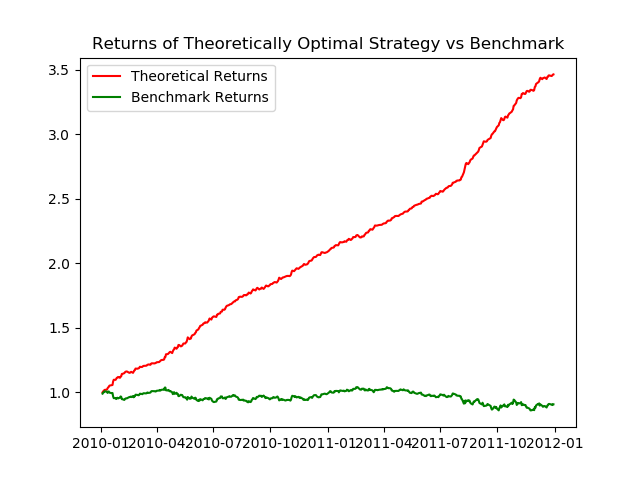
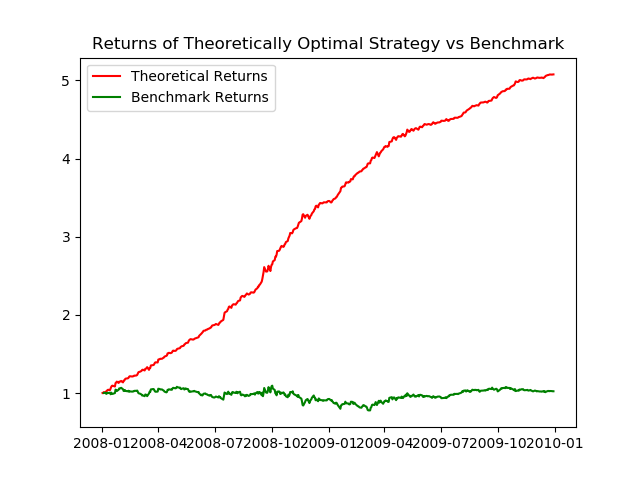
don cannot do label indexing error

diff --git a/ML4T_2019Fall/strategy_learner/experiment2.py b/ML4T_2019Fall/strategy_learner/experiment2.py
@@ -40,33 +40,50 @@ def experiment1():
     start_val = 100000
     symbol = "JPM"
     commission = 9.95
-    impact = 0.005
     num_shares = 1000
     sd=dt.datetime(2008,1,1)
     ed=dt.datetime(2009,12,31)
 
-    #In-Sample Q-Learning Strat Port Stats
+    #Normal Impact
     seed = 1021080103
     #seed = 1001090000
     #seed = 1111090000
     np.random.seed(seed)  		   	  			  	 		  		  		    	 		 		   		 		  
     random.seed(seed)
+    impact = 0.005
     stl = StrategyLearner.StrategyLearner( impact=impact)
     stl.addEvidence(symbol=symbol, sd=sd, ed=ed)
-    df_trades = stl.testPolicy(symbol=symbol, sd=sd, ed=ed)
-    df_trades = reformat_trades(symbol, df_trades)
-    strat_portvals = ms.compute_portvals(df_trades, start_val=100000, commission=9.95, impact=0.005)
+    df_trades_norm = stl.testPolicy(symbol=symbol, sd=sd, ed=ed)
+    df_trades_norm = reformat_trades(symbol, df_trades_norm)
+    num_trades_norm = df_trades_norm.shape[0]
+    strat_portvals = ms.compute_portvals(df_trades_norm, start_val=100000, commission=9.95, impact=0.005)
     cum_ret, avg_daily_ret, std_daily_ret, sharpe_ratio = compute_port_stats(strat_portvals)
     strat_returns = strat_portvals["portfolio_totals"]
     normed_strat_returns = strat_portvals["portfolio_totals"] / strat_portvals["portfolio_totals"][0]
 
-    #Man Strat Port Stats
-    man = ManualStrategy.ManualStrategy()
-    man_trades_df = man.testPolicy(symbol=symbol, sd=sd, ed=ed)
-    man_portvals = ms.compute_portvals(man_trades_df, start_val=100000, commission=9.95, impact=0.005)
-    cum_retM, avg_daily_retM, std_daily_retM, sharpe_ratioM = compute_port_stats(man_portvals)
-    man_returns = man_portvals["portfolio_totals"]
-    normed_man_returns = man_portvals["portfolio_totals"] / man_portvals["portfolio_totals"][0]
+    #No Impact
+    impact = 0.0
+    stl = StrategyLearner.StrategyLearner( impact=impact)
+    stl.addEvidence(symbol=symbol, sd=sd, ed=ed)
+    df_trades_z = stl.testPolicy(symbol=symbol, sd=sd, ed=ed)
+    df_trades_z = reformat_trades(symbol, df_trades_z)
+    num_trades_zero = df_trades_z.shape[0]
+    z_portvals = ms.compute_portvals(df_trades_z, start_val=100000, commission=9.95, impact=0.005)
+    cum_retZ, avg_daily_retZ, std_daily_retZ, sharpe_ratioZ = compute_port_stats(z_portvals)
+    z_returns = z_portvals["portfolio_totals"]
+    normed_z_returns = z_portvals["portfolio_totals"] / z_portvals["portfolio_totals"][0]
+
+    #High Impact Stats
+    impact = 0.99
+    stl = StrategyLearner.StrategyLearner( impact=impact)
+    stl.addEvidence(symbol=symbol, sd=sd, ed=ed)
+    df_trades_h = stl.testPolicy(symbol=symbol, sd=sd, ed=ed)
+    df_trades_h = reformat_trades(symbol, df_trades_h)
+    num_trades_high = df_trades_h.shape[0]
+    h_portvals = ms.compute_portvals(df_trades_h, start_val=100000, commission=9.95, impact=0.005)
+    cum_ret_h, avg_daily_ret_h, std_daily_ret_h, sharpe_ratio_H = compute_port_stats(h_portvals)
+    h_returns = h_portvals["portfolio_totals"]
+    normed_h_returns = h_portvals["portfolio_totals"] / h_portvals["portfolio_totals"][0]
 
     #Benchmark Stats
     df_prices = ind.prepare_pricedf(symbol, sd, ed)
@@ -78,33 +95,42 @@ def experiment1():
 
     print(f"Date Range: {sd} to {ed}")  		   	  			  	 		  		  		    	 		 		   		 		  
     print()  		   	  			  	 		  		  		    	 		 		   		 		  
-    print(f"Sharpe Ratio of Q Strat: {sharpe_ratio}")
-    print(f"Sharpe Ratio of Man Strat: {sharpe_ratioM}")  		   	  			  	 		  		  		    	 		 		   		 		  
-    print(f"Sharpe Ratio of Benchmark : {sharpe_ratioB}")   	  			  	 		  		  		    	 		 		   		 		  
+    print(f"Sharpe Ratio of Normal Impact: {sharpe_ratio}")
+    print(f"Sharpe Ratio of Zero Impact: {sharpe_ratioZ}")  		   	  			  	 		  		  		    	 		 		   		 		  
+    print(f"Sharpe Ratio of High Impact: {sharpe_ratio_H}")
+    print(f"Sharpe Ratio of Benchmark : {sharpe_ratioB}") 	  			  	 		  		  		    	 		 		   		 		  
     print()  		   	  			  	 		  		  		    	 		 		   		 		  
-    print(f"Cumulative Return of Q Strat: {cum_ret}")
-    print(f"Cumulative Return of Man Strat : {cum_retM}")		   	  			  	 		  		  		    	 		 		   		 		  
+    print(f"Cumulative Return of Normal Impact: {cum_ret}")
+    print(f"Cumulative Return of Zero Impact : {cum_retZ}")		   	  			  	 		  		  		    	 		 		   		 		  
+    print(f"Cumulative Return of High Impact : {cum_ret_h}")
     print(f"Cumulative Return of Benchmark : {cum_retB}")  		   	  			  	 		  		  		    	 		 		   		 		  
     print()  		   	  			  	 		  		  		    	 		 		   		 		  
-    print(f"Standard Deviation of Q Strat: {std_daily_ret}")
-    print(f"Standard Deviation of Man Strat : {std_daily_retM}") 		   	  			  	 		  		  		    	 		 		   		 		  
-    print(f"Standard Deviation of Benchmark : {std_daily_retB}")  		   	  			  	 		  		  		    	 		 		   		 		  
+    print(f"Standard Deviation of Normal Impact: {std_daily_ret}")
+    print(f"Standard Deviation of Zero Impact : {std_daily_retZ}") 		   	  			  	 		  		  		    	 		 		   		 		  
+    print(f"Standard Deviation of High Impact: {std_daily_ret_h}")
+    print(f"Standard Deviation of Benchmark : {std_daily_retB}") 		   	  			  	 		  		  		    	 		 		   		 		  
     print()  		   	  			  	 		  		  		    	 		 		   		 		  
-    print(f"Average Daily Return of Q Strat: {avg_daily_ret}")
-    print(f"Average Daily Return of Man Strat : {avg_daily_retM}") 		   	  			  	 		  		  		    	 		 		   		 		  
+    print(f"Average Daily Return of Normal Impact: {avg_daily_ret}")
+    print(f"Average Daily Return of Zero Impact : {avg_daily_retZ}") 		   	  			  	 		  		  		    	 		 		   		 		  
+    print(f"Average Daily Return of High Impact : {avg_daily_ret_h}")
     print(f"Average Daily Return of Benchmark : {avg_daily_retB}")  		   	  			  	 		  		  		    	 		 		   		 		  
     print()  		   	  			  	 		  		  		    	 		 		   		 		  
-    print(f"Final Portfolio Value Q Strat: {strat_returns[-1]}")
-    print(f"Final Portfolio Value Man Strat: {man_returns[-1]}")
+    print(f"Final Portfolio Value Normal Impact: {strat_returns[-1]}")
+    print(f"Final Portfolio Value Zero Impact: {z_returns[-1]}")
+    print(f"Final Portfolio Value High Impact: { h_returns[-1]}")
     print(f"Final Portfolio Value Benchmark: {bench_returns[-1]}")
+    print()
+    print("Num Trades Normal Impact: {}".format(num_trades_norm))
+    print("Num Trades High Impact: {}".format(num_trades_high))
+    print("Num Trades Zero Impact: {}".format(num_trades_zero))
 
-    chart_df = pd.concat([normed_strat_returns, normed_man_returns, normed_bench_returns], axis=1)
-    chart_df.columns = ['Q-Learning Strategy', 'Manual Strategy', 'Benchmark']
-    chart_df.plot(grid=True, title='Strategy Learner vs Manual Strategy vs Benchmark (In-Sample)', use_index=True, color=['Red', 'Blue', 'Black'])
+    chart_df = pd.concat([normed_strat_returns, normed_z_returns, normed_h_returns, normed_bench_returns], axis=1)
+    chart_df.columns = ['0.005 Impact', '0 Impact', '0.99 Impact', 'Benchmark']
+    chart_df.plot(grid=True, title='Normal Impact vs No Impact vs High Impact(In-Sample)', use_index=True, color=['Red', 'Blue', 'Black', "Green"])
     #plt.show()
     plt.xlabel('Returns Normalized', fontsize=10)
     plt.ylabel('Dates', fontsize=10)
-    plt.savefig("experiment1.png")
+    plt.savefig("experiment2.png")
 
 def reformat_trades(symbol, df_trades):
     orders = []

diff --git a/ML4T_2019Fall/strategy_learner/StrategyLearner.py b/ML4T_2019Fall/strategy_learner/StrategyLearner.py
@@ -25,7 +25,8 @@ Student Name: Tucker Balch (replace with your name)
 GT User ID: shollister7 (replace with your User ID)  		   	  			  	 		  		  		    	 		 		   		 		  
 GT ID: 903304661 (replace with your GT ID)  		   	  			  	 		  		  		    	 		 		   		 		  
 """  		   	  			  	 		  		  		    	 		 		   		 		  
-  		   	  			  	 		  		  		    	 		 		   		 		  
+
+import matplotlib.pyplot as plt   	  			  	 		  		  		    	 		 		   		 		  
 import datetime as dt  		   	  			  	 		  		  		    	 		 		   		 		  
 import pandas as pd  		   	  			  	 		  		  		    	 		 		   		 		  
 import util as ut  		   	  			  	 		  		  		    	 		 		   		 		  
@@ -34,7 +35,8 @@ import QLearner as ql
 import indicators as ind
 import util as ut
 import numpy as np 
-import marketsimcode as ms  	  			  	 		  		  		    	 		 		   		 		  
+import marketsimcode as ms
+import ManualStrategy as man	  			  	 		  		  		    	 		 		   		 		  
   		   	  			  	 		  		  		    	 		 		   		 		  
 class StrategyLearner(object):
     LNG = 1
@@ -94,7 +96,8 @@ class StrategyLearner(object):
         df_p = self.get_indicators(symbol, sd, ed)
         feats = self.discretize(df_p)
         #print(df_p)
-        pct_return = get_pctReturn(feats, symbol)
+        pct_return = feats[symbol].copy()
+        pct_return[1:] = (pct_return[1:] / pct_return[:-1].values) - 1
         init_state = feats.iloc[0]['state']
         self.q_l.querysetstate(int(float(init_state)))
         i = 0
@@ -167,7 +170,7 @@ class StrategyLearner(object):
 
             strat_portvals = ms.compute_portvals(df_trades, start_val=100000, commission=9.95, impact=0.005)
             cum_returns[i] = cumulative_return(strat_portvals)
-            if (i > 20 and cum_returns[i] <= cum_returns[i - 5]):
+            if (i > 20 and cum_returns[i] <= cum_returns[i - 10]):
                 break
 
     def author(self):
@@ -269,16 +272,24 @@ class StrategyLearner(object):
         #print(trades)
         #print(df_trades_test)
         #switch to df_trades_test for experiment1.py
-        return trades 		   	  			  	 		  		  		    	 		 		   		 		  
+        #print(df_trades_test)
+        return trades		   	  			  	 		  		  		    	 		 		   		 		  
 
 def cumulative_return(portvals):
     cumulative_return, avg_daily, std_daily, sharpe = compute_port_stats(portvals)
     return cumulative_return
 
-def get_pctReturn(feats,symbol):
-    pct_return = feats[symbol]
-    pct_return[1:] = (pct_return[1:] / pct_return[:-1].values) - 1
-    return pct_return
+
+def create_benchmark_tradesDF(df_prices, symbol="JPM"):
+        dates = []
+        dates.append(df_prices.index[3])
+        dates.append(df_prices.index[len(df_prices.index)-2])
+        symbols = [symbol,symbol]
+        df_trades = pd.DataFrame(data = symbols, index = dates, columns = ['Symbol'])
+        df_trades["Order"] = ["BUY", "SELL"]
+        df_trades["Shares"] = [1000, 1000]
+        df_trades.index.name = "Date"
+        return df_trades
 
 def compute_port_stats(portvals):
         rfr = 0.0
@@ -294,37 +305,4 @@ def compute_port_stats(portvals):
         return cumulative_return, avg_daily, std_daily, sharpe
 
 if __name__=="__main__":  		   	  			  	 		  		  		    	 		 		   		 		  
-    print("One does not simply think up a strategy")
-    sd=dt.datetime(2009,1,1)
-    ed=dt.datetime(2010,1,1)
-    sl = StrategyLearner()
-    sl.addEvidence(symbol="JPM")
-    df_trades = sl.testPolicy(symbol="JPM")
-
-    strat_portvals = ms.compute_portvals(df_trades, start_val=100000, commission=9.95, impact=0.005)
-    cum_ret, avg_daily_ret, std_daily_ret, sharpe_ratio = compute_port_stats(strat_portvals)
-    strat_returns = strat_portvals["portfolio_totals"]
-
-    print(f"Date Range: {sd} to {ed}")  		   	  			  	 		  		  		    	 		 		   		 		  
-    print()  		   	  			  	 		  		  		    	 		 		   		 		  
-    print(f"Sharpe Ratio of Manual Strat: {sharpe_ratio}")  		   	  			  	 		  		  		    	 		 		   		 		  
-    #print(f"Sharpe Ratio of Benchmark : {sharpe_ratio_bench}")  		   	  			  	 		  		  		    	 		 		   		 		  
-    print()  		   	  			  	 		  		  		    	 		 		   		 		  
-    print(f"Cumulative Return of Manual Strat: {cum_ret}")  		   	  			  	 		  		  		    	 		 		   		 		  
-    #print(f"Cumulative Return of Benchmark : {cum_ret_bench}")  		   	  			  	 		  		  		    	 		 		   		 		  
-    print()  		   	  			  	 		  		  		    	 		 		   		 		  
-    print(f"Standard Deviation of Manual Strat: {std_daily_ret}")  		   	  			  	 		  		  		    	 		 		   		 		  
-    #print(f"Standard Deviation of Benchmark : {std_daily_ret_bench}")  		   	  			  	 		  		  		    	 		 		   		 		  
-    print()  		   	  			  	 		  		  		    	 		 		   		 		  
-    print(f"Average Daily Return of Manual Strat: {avg_daily_ret}")  		   	  			  	 		  		  		    	 		 		   		 		  
-    #print(f"Average Daily Return of Benchmark : {avg_daily_ret_bench}")  		   	  			  	 		  		  		    	 		 		   		 		  
-    print()  		   	  			  	 		  		  		    	 		 		   		 		  
-    print(f"Final Portfolio Value Manual Strat: {strat_returns[-1]}")
-    #print(f"Final Portfolio Value Benchmark: {bench_returns[-1]}")  
-    
-    
-    #print(df_trades)		  	 		  		  		    	 		 		   		 		  
-
-#TODO: Spice Up code np.rolling() instead of np.iterrows for speed, stop Q learning when convergence reached etc
-# experiment code (just keep it within Strat Learner)
-# Spice up descritize (weight each indicator differently)
+    print("One does not simply think up a strategy")	  	 		  		  		    	 		 		   		 		  

diff --git a/ML4T_2019Fall/manual_strategy/TheoreticallyOptimalStrategy.py b/ML4T_2019Fall/manual_strategy/TheoreticallyOptimalStrategy.py
@@ -112,7 +112,7 @@ class TheoreticallyOptimalStrategy(object):
     def author(self):
         return "shollister7"
         
-    def testPolicy(self, symbol = "JPM", sd=dt.datetime(2010,1,1), ed=dt.datetime(2011,12,31), sv=10000):
+    def testPolicy(self, symbol = "JPM", sd=dt.datetime(2008,1,1), ed=dt.datetime(2009,12,31), sv=10000):
         dates = pd.date_range(sd,ed)
         df_prices = util.get_data([symbol], dates, False)
         trades_df = self.look_ahead(df_prices)
@@ -120,8 +120,8 @@ class TheoreticallyOptimalStrategy(object):
 
 if __name__ == "__main__":
     ts = TheoreticallyOptimalStrategy()
-    sd=dt.datetime(2010,1,1)
-    ed=dt.datetime(2011,12,31)
+    sd=dt.datetime(2008,1,1)
+    ed=dt.datetime(2009,12,31)
     df_prices = prepare_pricedf(sd, ed)
     
     #Create Benchmark trades_df
